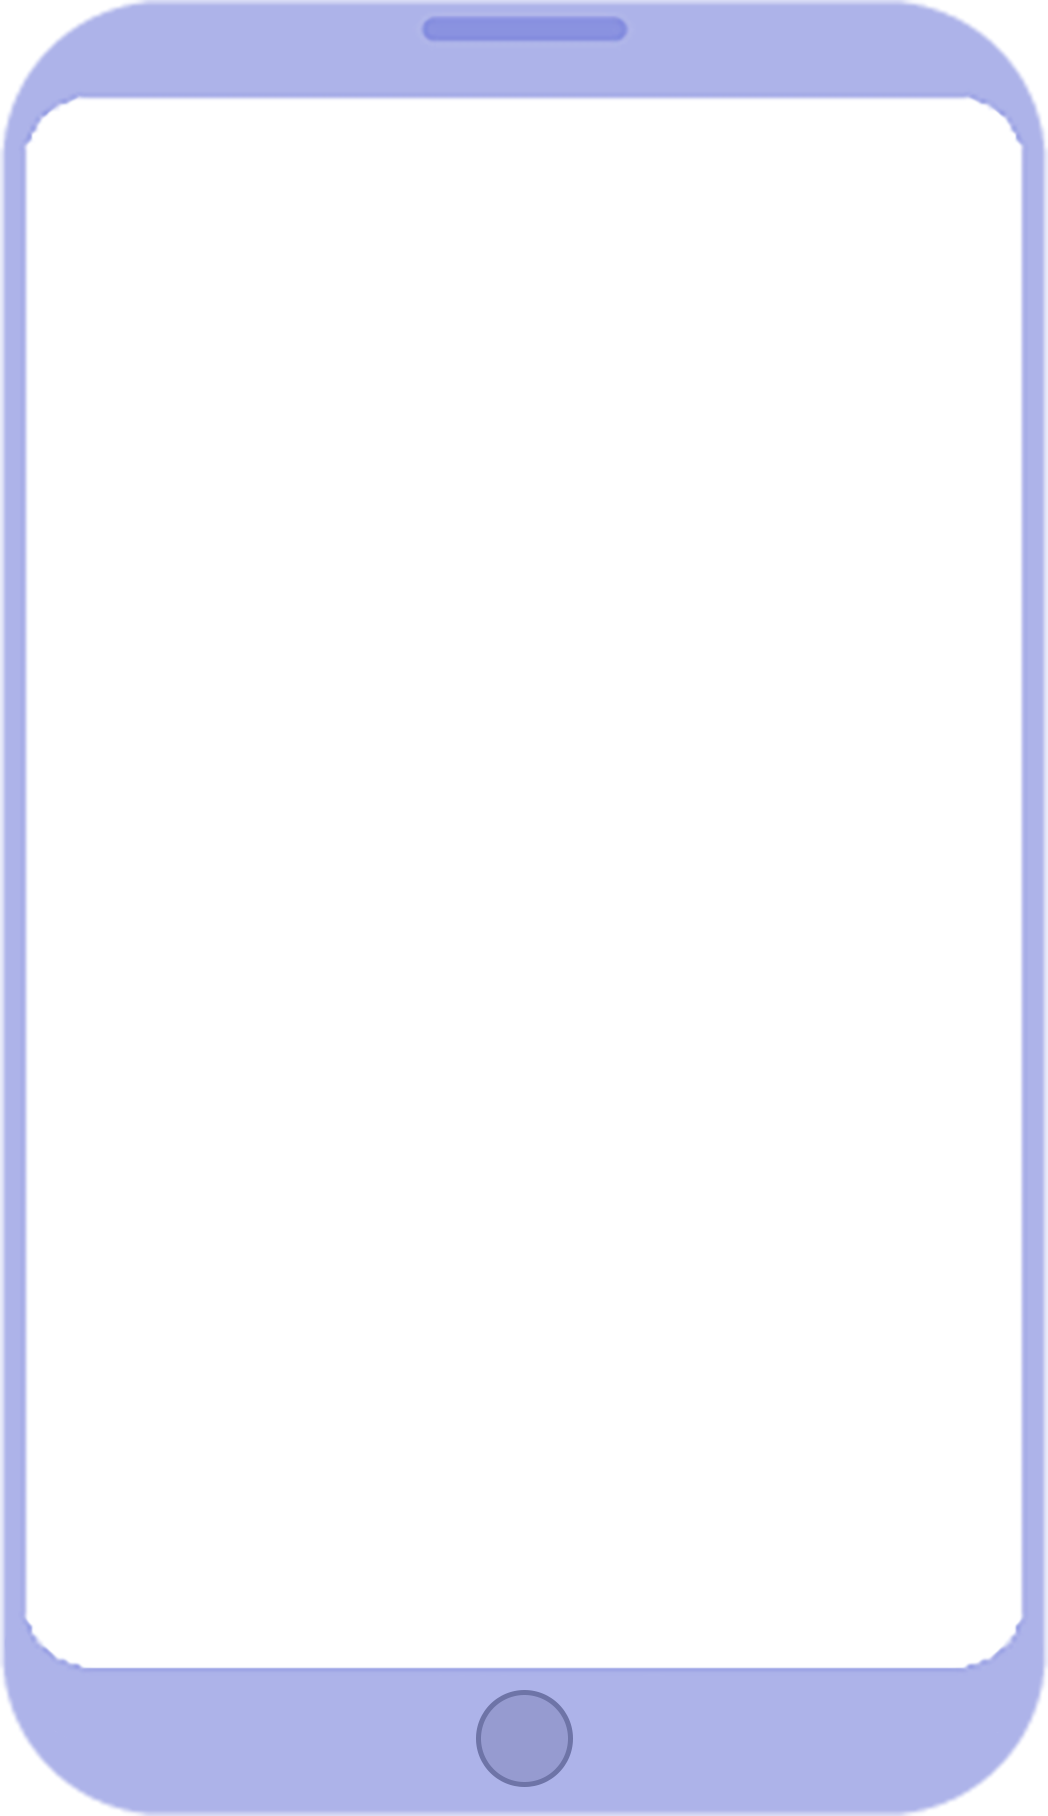
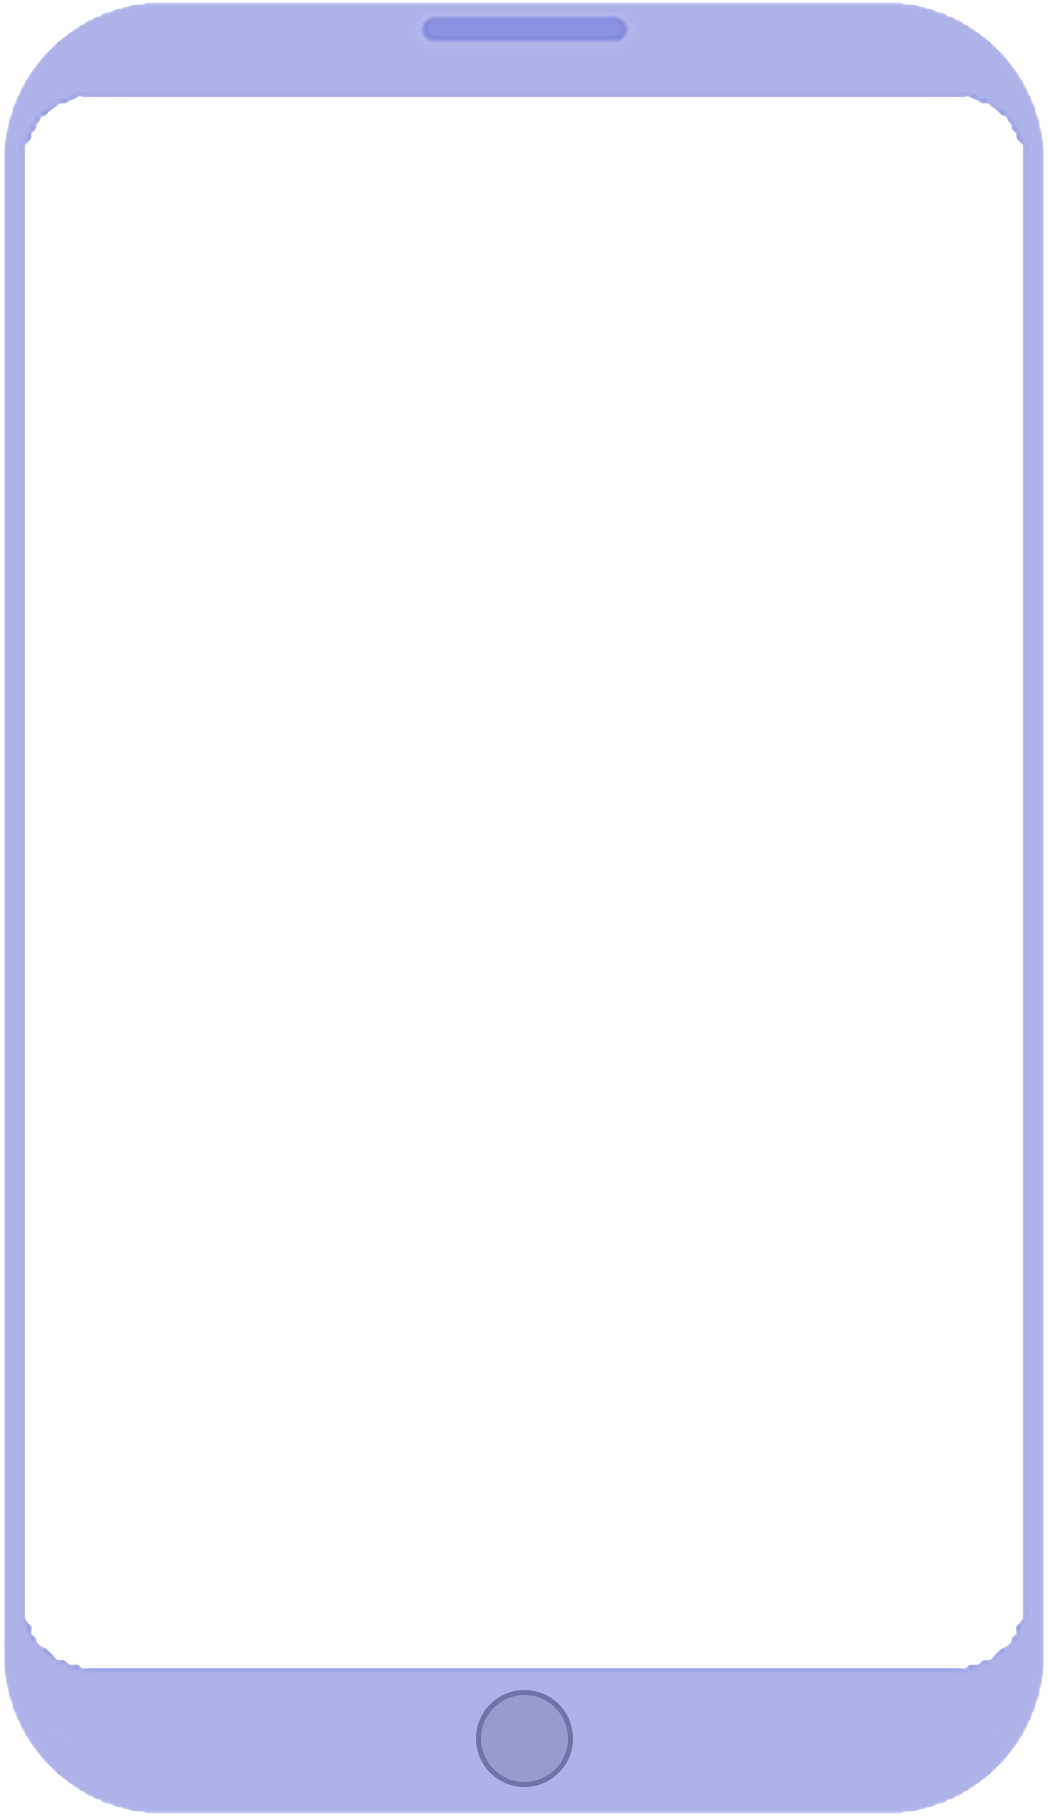
final leg

Changed region(s): [[0.9771, 0.0617, 1.0, 0.9251], [0.0, 0.0617, 0.0305, 0.8943], [0.0916, 0.9868, 0.8855, 1.0]]

diff --git a/src/lib/stores.js b/src/lib/stores.js
@@ -23,27 +23,26 @@ export const finalTime = writable('00:00:00');
 // REF: https://esa.act.gov.au/emergency-warning-orroral-valley-fire
 export const alerts = [
   {
-    firesWebsite: 'rich text',
-    socials: 'rich text?',
-    firesApp: {
-      location: 'location',
-      text: 'text'
-    },
-    radio: 'script',
-    landline:
-      'There is active fire at the Orroral Valley Fire, and community members in Tharwa Village, Boboyan Road, Apollo Road, Top Naas Road and Nass Road need to remain vigilant.',
-    time: 'January 27, 2020 14:32:00'
+    time: 'January 27, 2020 14:32:00',
+    level: 'advice',
+    threat:
+      'There is currently no immediate threat to properties in Canberra suburbs.',
+    fullText: 'long text 1 here',
+    shortText: 'short text 1 here'
   },
   {
-    firesWebsite: 'second rich text',
-    socials: 'second rich text?',
-    firesApp: {
-      location: 'second location',
-      text: 'second text'
-    },
-    radio: 'second script',
-    landline:
-      'People in the areas of THARWA VILLAGE, BOBOYAN ROAD, APOLLO ROAD and TOP NAAS ROAD you should: SEEK SHELTER IMMEDIATELY. It is now too late to leave. If you are not in the area, do not return. The fire may pose a threat to all lives directly in its path. People in these suburbs are in danger and need to seek immediate shelter as the fire approaches. Driving now is extremely dangerous and potentially deadly.',
-    time: 'January 27, 2020 16:33:00'
+    time: 'January 27, 2020 16:33:00',
+    level: 'watch and act',
+    threat: 'The fire is out of control.',
+    fullText: 'long text 2 here',
+    shortText: 'short text 2 here'
+  },
+
+  {
+    time: 'January 29, 2020 13:37:00',
+    level: 'emergency warning',
+    threat: 'SEEK SHELTER IMMEDIATELY. It is now too late to leave.',
+    fullText: 'long text 3 here',
+    shortText: 'short text 3 here'
   }
 ];

diff --git a/src/ui/overlays/Smartphone.svelte b/src/ui/overlays/Smartphone.svelte
@@ -17,6 +17,9 @@
 </script>
 
 <container>
+  <signal>
+    {#if $currentState.nonfunctionalComponents.includes(3)}NO{:else}FULL{/if} SIGNAL
+  </signal>
   <viewport>
     {#if smartphoneState == 0}
       <button
@@ -36,16 +39,7 @@
           smartphoneState = 1;
         }}>PhoneApp</button>
     {/if}
-
-    {#if !$currentState.nonfunctionalComponents.includes(3)}
-      <!-- TODO: full signal div -->
-      <svelte:component this={scene[smartphoneState]} />
-    {:else}
-      <!-- TODO: No signal div -->
-      {#if smartphoneState != 0}
-        empty content div
-      {/if}
-    {/if}
+    <svelte:component this={scene[smartphoneState]} />
   </viewport>
   <svg
     version="1.1"
@@ -70,11 +64,27 @@
 <style>
   viewport {
     position: absolute;
-    margin-top: 9.5%;
+    margin-top: 16.2%;
     margin-left: 2.5%;
-    height: 85.7%;
+    height: 81.9%;
     width: 95%;
-    border-radius: 20px;
+    border-bottom-left-radius: 20px;
+    border-bottom-right-radius: 20px;
+  }
+  signal {
+    position: absolute;
+    padding-top: 2%;
+    padding-right: 5%;
+    margin-top: 9.2%;
+    margin-left: 2.5%;
+    height: 3%;
+    width: 90%;
+    background: #424242;
+    border-top-left-radius: 20px;
+    border-top-right-radius: 20px;
+    text-align: right;
+    color: white;
+    font-size: 75%;
   }
   container {
     position: absolute;

diff --git a/src/ui/overlays/Landline.svelte b/src/ui/overlays/Landline.svelte
@@ -4,7 +4,6 @@
 
   let speech = new SpeechSynthesisUtterance();
   speech.lang = 'en-AU';
-  speech.rate = 0.85;
 
   let playbackEnabled = !$currentState.nonfunctionalComponents.includes(4);
   let toneAudio = new Audio('BushfiresProject/tone.mp3');
@@ -13,8 +12,14 @@
 
   function toggleAlert() {
     if (playbackEnabled) {
-      speech.text = alerts[$currentState.gameState].landline;
-
+      speech.text =
+        'Thank you for calling your local fire agency. The latest update on the bushfire is as follows: The fire is currently classed at the ' +
+        alerts[$currentState.gameState].level +
+        ' level. ' +
+        alerts[$currentState.gameState].threat +
+        ' ' +
+        alerts[$currentState.gameState].shortText +
+        " You can also check out the latest news on the bushfire on your local fire agency's website.";
       if (window.speechSynthesis.speaking) {
         window.speechSynthesis.cancel();
       } else {

diff --git a/src/ui/overlays/Radio.svelte b/src/ui/overlays/Radio.svelte
@@ -5,7 +5,6 @@
 
   let speech = new SpeechSynthesisUtterance();
   speech.lang = 'en-AU';
-  speech.rate = 0.85;
 
   let playbackEnabled = !$currentState.nonfunctionalComponents.includes(2);
   let staticAudio = new Audio('BushfiresProject/static.wav');
@@ -14,7 +13,14 @@
 
   function toggleAlert() {
     if (playbackEnabled) {
-      speech.text = alerts[$currentState.gameState].radio;
+      speech.text =
+        'You are listening to your local news radio station bringing you the latest update on the bushfire. The fire is currently classed at the ' +
+        alerts[$currentState.gameState].level +
+        ' level. ' +
+        alerts[$currentState.gameState].threat +
+        ' ' +
+        alerts[$currentState.gameState].shortText +
+        " You can also check out the latest news on the bushfire on your local fire agency's website.";
 
       if (window.speechSynthesis.speaking) {
         window.speechSynthesis.cancel();

diff --git a/src/ui/Desk.svelte b/src/ui/Desk.svelte
@@ -28,7 +28,7 @@
   } else if ($currentState.overlayComponent != 0) {
     speedFactor = 0;
   } else {
-    speedFactor = 45000;
+    speedFactor = 11250;
   }
 
   onMount(() => {
@@ -40,7 +40,7 @@
       if ($currentState.gameState < alerts.length) {
         nextTime = Date.parse(alerts[$currentState.gameState].time);
       }
-    }, 1000);
+    }, 250);
   });
 </script>
 
@@ -148,7 +148,6 @@
       transform="rotate({30 * hours + minutes / 2} 408 483)" />
   </svg>
   <Overlay />
-  <alerts>alerts</alerts>
 </container>
 
 <style>

diff --git a/src/ui/Intro.svelte b/src/ui/Intro.svelte
@@ -28,6 +28,7 @@
         }, 3000);
       }}>
       <!-- TODO: prompt the user to think of the route in intro info -->
+      <!-- TODO: also inform users that stuff may break (phones etc) as the fire gets worse, but may also come back online as it gets better -->
 
       <instructions>info</instructions>
     </OutClick>

diff --git a/src/ui/overlays/applications/SocialMediaApp.svelte b/src/ui/overlays/applications/SocialMediaApp.svelte
@@ -4,6 +4,9 @@
   <div />
 </container>
 
+<!-- TODO: THIS -->
+
+<!-- Responsive (phone and web) -->
 <style>
   container {
     display: flex;

diff --git a/src/ui/overlays/applications/FiresSite.svelte b/src/ui/overlays/applications/FiresSite.svelte
@@ -1,0 +1,2 @@
+<!-- TODO: THIS -->
+<!-- Responsive (phone and web) -->

diff --git a/src/ui/overlays/applications/MessagesApp.svelte b/src/ui/overlays/applications/MessagesApp.svelte
@@ -1,1 +1,2 @@
 <!-- phone only -->
+<!-- TODO: THIS -->

diff --git a/src/ui/overlays/applications/PhoneApp.svelte b/src/ui/overlays/applications/PhoneApp.svelte
@@ -1,1 +1,2 @@
 <!-- phone only -->
+<!-- TODO: THIS -->
